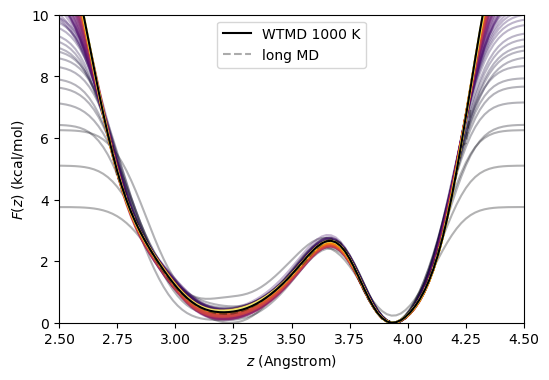
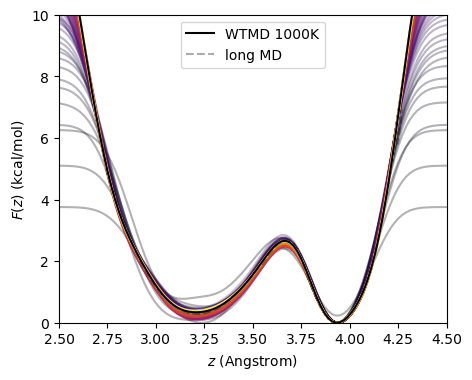
metadynamics

diff --git a/metadynamics/pmfplot.py b/metadynamics/pmfplot.py
@@ -10,6 +10,7 @@ kB_kcal_per_mol=sc.physical_constants['Boltzmann constant'][0]/sc.calorie*sc.Avo
 parser=ap.ArgumentParser()
 parser.add_argument('-i',metavar='<str>',default='in.pmf',type=str,help='pmf file')
 parser.add_argument('-series',nargs=3,type=int,default=[0,0,0])
+parser.add_argument('-series-average',action='store_true',help='show series average in plot')
 parser.add_argument('-o',metavar='<str>',default='plot.png',type=str,help='output image file')
 parser.add_argument('-ylim',default=[0,10],nargs=2,type=float,help='plot ylimits')
 parser.add_argument('-xlim',default=[2.5,4.5],nargs=2,type=float,help='plot xlimits')
@@ -42,7 +43,7 @@ elif args.pmf_long_md != '':
     gotlong=True
     zz,flong=np.loadtxt(args.pmf_long_md,unpack=True)
 
-plt,ax=plt.subplots(1,1,figsize=(6,4))
+plt,ax=plt.subplots(1,1,figsize=(5,4))
 
 ax.set_ylim(args.ylim)
 ax.set_xlim(args.xlim)
@@ -52,14 +53,22 @@ if args.series[2]!=0:
     cmap=cm.get_cmap('inferno')
     f={}
     ni=int((args.series[1]-args.series[0])/args.series[2])
+    ffa=[]
     for i,s in enumerate(range(args.series[0],args.series[1],args.series[2])):
         fn=args.i.format(s)
         z,f[i]=np.loadtxt(fn,unpack=True)
+        if len(ffa)==0:
+            ffa=f[i].copy()
+        else:
+            ffa+=f[i]
         ax.plot(z,f[i],color=cmap(i/ni),alpha=0.3)
-    s+=args.series[2]
-    fn=args.i.format(s)
+    fn=args.i.format(args.series[1])
     z,ff=np.loadtxt(fn,unpack=True)
-    ax.plot(z,ff,color='black',label=args.label)
+    ffa+=ff
+    if args.series_average:
+        ax.plot(z,ffa/ni,color='black',label='{:s}-avg'.format(args.label))
+    else:
+        ax.plot(z,ff,color='black',label=args.label)
 
 else:
     z,f=np.loadtxt(args.i,unpack=True)

diff --git a/metadynamics/README.md b/metadynamics/README.md
@@ -11,14 +11,17 @@ Cameron F. Abrams cfa22@drexel.edu
 
 ## Standard Metadynamics
 
+Here, we'll use NAMD to output the bias potential at regular intervals.  In standard metadynamics, the best estimator of the free energy is the (negative) time-average of the bias, which is computed by `pmfplot.py` when the `-series-average` argument is supplied.
 ```bash
 $ namd2 +p1 metadynamics.namd >& log 
-$ python pmfplot.py -i 'butane_metadynamics.{:d}.pmf' -series 100000 10000000 100000 -o metad.png
+$ python pmfplot.py -i 'butane_metadynamics.{:d}.pmf' -series 100000 10000000 100000 -o metad.png -series-average
 ```
 
-![](metad.png)
+![](metad-wav.png)
 
 ## Well-Tempered Metadynamics
+
+Here, we output the bias potential as a function of time only for plot-making purposes; in WTMD, the best estimator of the free energy is just the most recent (negative) bias potential.
 
 ```bash
 $ namd2 +p1 welltempered.namd >& log
